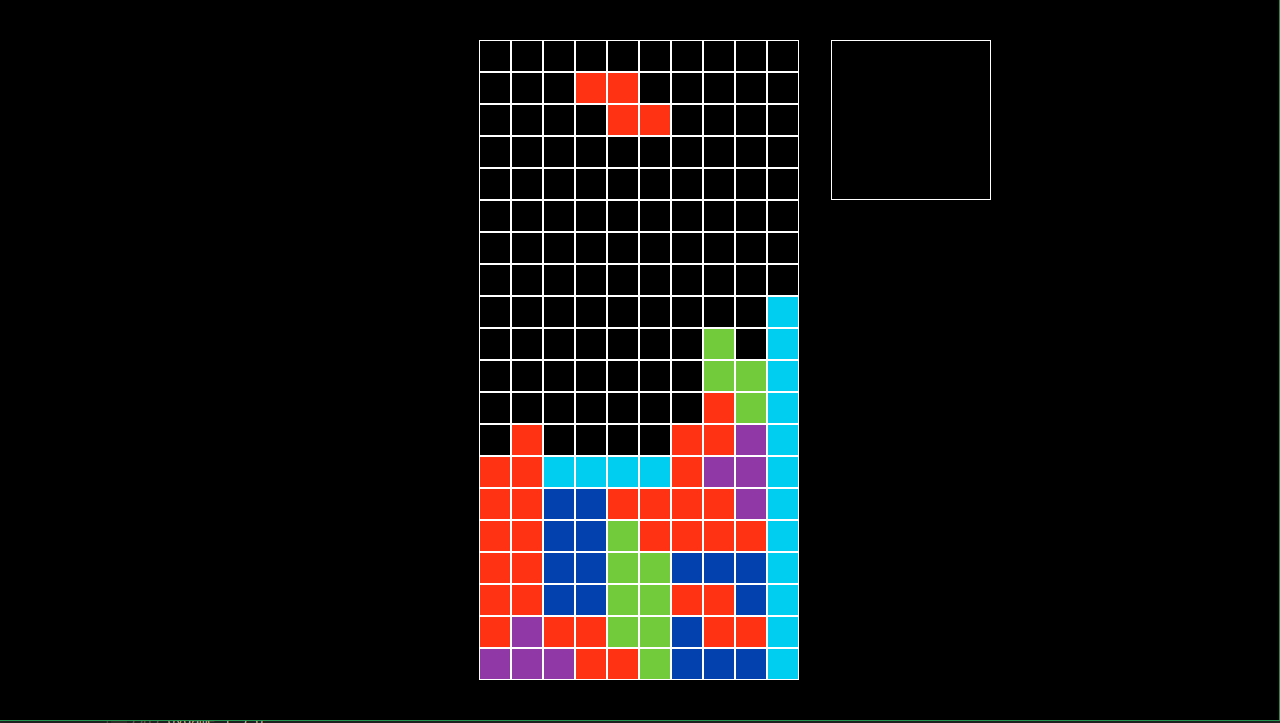
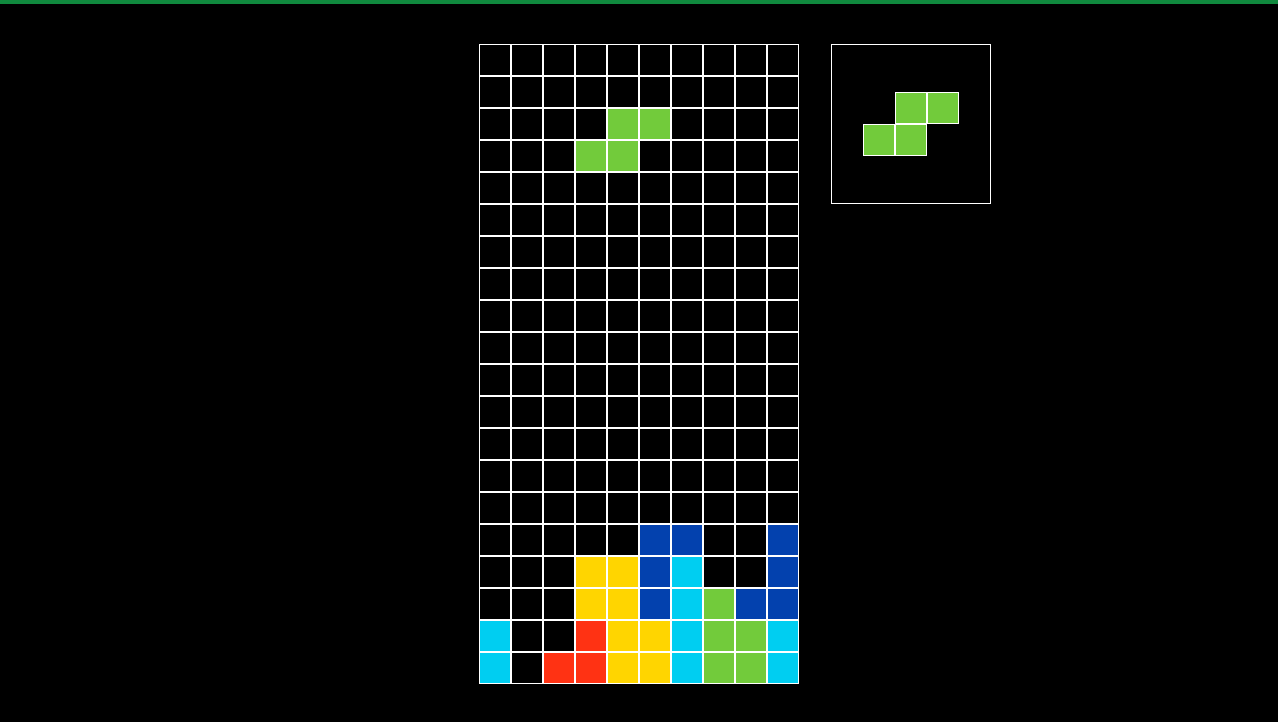
Piece preview

diff --git a/tetris.py b/tetris.py
@@ -53,6 +53,8 @@ piece_pos = [0, 0] # relative to the play area
 piece_index = 0
 piece_rotation = 0
 
+next_piece_index = 0
+
 input_states = \
 {
     "left" : False,
@@ -84,22 +86,26 @@ can_rotate = True
 can_rotate_timer = []
 
 # Array of all pieces and all their rotations, stored as offsets in a 4 by 4 grid if an l or O, or a 3 by 3 grid otherwise (follows SRS)
-# Additionally, and the 5th value in the list for each piece is the color index, and the 6th is their start position
+# Additionally, and the 5th value in the list for each piece is the color index, and the 6th is their start position, 7th is piece preview offset in tiles (can be fractional)
 pieces = \
 [
-    [ [ [0, 1], [1, 1], [2, 1], [3, 1] ], [ [2, 0], [2, 1], [2, 2], [2, 3] ], [ [0, 2], [1, 2], [2, 2], [3, 2] ], [ [1, 0], [1, 1], [1, 2], [1, 3] ], 1, [3, 18] ], # l 
-    [ [ [1, 0], [1, 1], [2, 0], [2, 1] ], [ [1, 0], [1, 1], [2, 0], [2, 1] ], [ [1, 0], [1, 1], [2, 0], [2, 1] ], [ [1, 0], [1, 1], [2, 0], [2, 1] ], 2, [4, 18]], # O
-    [ [ [1, 0], [0, 1], [1, 1], [2, 1] ], [ [1, 0], [1, 1], [1, 2], [2, 1] ], [ [0, 1], [1, 1], [2, 1], [1, 2] ], [ [0, 1], [1, 0], [1, 1], [1, 2] ], 3, [3, 19]], # T
-    [ [ [1, 0], [2, 0], [0, 1], [1, 1] ], [ [1, 0], [1, 1], [2, 1], [2, 2] ], [ [1, 1], [2, 1], [0, 2], [1, 2] ], [ [0, 0], [0, 1], [1, 1], [1, 2] ], 4, [3, 19]], # S
-    [ [ [0, 0], [1, 0], [1, 1], [2, 1] ], [ [1, 1], [1, 2], [2, 0], [2, 1] ], [ [0, 1], [1, 1], [1, 2], [2, 2] ], [ [0, 1], [0, 2], [1, 0], [1, 1] ], 5, [3, 19]], # Z
-    [ [ [0, 0], [0, 1], [1, 1], [2, 1] ], [ [1, 0], [2, 0], [1, 1], [1, 2] ], [ [0, 1], [1, 1], [2, 1], [2, 2] ], [ [0, 2], [1, 0], [1, 1], [1, 2] ], 6, [3, 19]], # J
-    [ [ [2, 0], [0, 1], [1, 1], [2, 1] ], [ [1, 0], [1, 1], [1, 2], [2, 2] ], [ [0, 1], [1, 1], [2, 1], [0, 2] ], [ [0, 0], [1, 0], [1, 1], [1, 2] ], 7, [3, 19]]  # L
+    [ [ [0, 1], [1, 1], [2, 1], [3, 1] ], [ [2, 0], [2, 1], [2, 2], [2, 3] ], [ [0, 2], [1, 2], [2, 2], [3, 2] ], [ [1, 0], [1, 1], [1, 2], [1, 3] ], 1, [3, 18], [0.5, 1]], # l 
+    [ [ [1, 0], [1, 1], [2, 0], [2, 1] ], [ [1, 0], [1, 1], [2, 0], [2, 1] ], [ [1, 0], [1, 1], [2, 0], [2, 1] ], [ [1, 0], [1, 1], [2, 0], [2, 1] ], 2, [4, 18], [0.5, 1.5]], # O
+    [ [ [1, 0], [0, 1], [1, 1], [2, 1] ], [ [1, 0], [1, 1], [1, 2], [2, 1] ], [ [0, 1], [1, 1], [2, 1], [1, 2] ], [ [0, 1], [1, 0], [1, 1], [1, 2] ], 3, [3, 19], [1, 1.5]], # T
+    [ [ [1, 0], [2, 0], [0, 1], [1, 1] ], [ [1, 0], [1, 1], [2, 1], [2, 2] ], [ [1, 1], [2, 1], [0, 2], [1, 2] ], [ [0, 0], [0, 1], [1, 1], [1, 2] ], 4, [3, 19], [1, 1.5]], # S
+    [ [ [0, 0], [1, 0], [1, 1], [2, 1] ], [ [1, 1], [1, 2], [2, 0], [2, 1] ], [ [0, 1], [1, 1], [1, 2], [2, 2] ], [ [0, 1], [0, 2], [1, 0], [1, 1] ], 5, [3, 19], [1, 1.5]], # Z
+    [ [ [0, 0], [0, 1], [1, 1], [2, 1] ], [ [1, 0], [2, 0], [1, 1], [1, 2] ], [ [0, 1], [1, 1], [2, 1], [2, 2] ], [ [0, 2], [1, 0], [1, 1], [1, 2] ], 6, [3, 19], [1, 1.5]], # J
+    [ [ [2, 0], [0, 1], [1, 1], [2, 1] ], [ [1, 0], [1, 1], [1, 2], [2, 2] ], [ [0, 1], [1, 1], [2, 1], [0, 2] ], [ [0, 0], [1, 0], [1, 1], [1, 2] ], 7, [3, 19], [1, 1.5]]  # L
 ]
 
 # All game logic initializations go here, so the game can be restarted and such
 def init_game():
+    global next_piece_index
+
     create_play_area()
     random.seed()
+
+    next_piece_index = random.randrange(0, 6)
 
     insert_new_piece()
 
@@ -196,7 +202,18 @@ def draw():
             pygame.draw.rect(screen, tile_color, [drawn_grid_pos[0] + col * drawn_tile_size[0], drawn_grid_pos[1] + row * drawn_tile_size[1]] + drawn_tile_size)
     screen.unlock()
 
-    # Piece Preview - TODO
+    # TODO: move this to a separate screen that only gets redrawn once when a new piece is generated
+    # next piece preview
+    for tile in pieces[next_piece_index][0]:
+        tile_color = colors[pieces[next_piece_index][4]]
+        tile_preview_offset = pieces[next_piece_index][6]
+        tile_x = int(piece_preview_pos[0] + (tile[0] + tile_preview_offset[0]) * drawn_tile_size[0])
+        tile_y = int(piece_preview_pos[1] + (tile[1] + tile_preview_offset[1]) * drawn_tile_size[1])
+        tile_rect = [tile_x, tile_y] + drawn_tile_size
+
+        pygame.draw.rect(screen, tile_color, tile_rect) # filled color
+        pygame.draw.rect(screen, [255, 255, 255], tile_rect, 1) # tile outline
+
 
     # Score, Level, and Lines Cleared - TODO
 
@@ -207,9 +224,10 @@ def draw():
     pygame.display.flip()
 
 def insert_new_piece():
-    global piece_index, piece_pos, piece_rotation
+    global piece_index, piece_pos, piece_rotation, next_piece_index
 
-    piece_index = random.randrange(0, 6)
+    piece_index = next_piece_index
+    next_piece_index = random.randrange(0, 6)
     piece_pos = pieces[piece_index][5].copy()
     piece_rotation = 0
 

diff --git a/readme.md b/readme.md
@@ -2,3 +2,6 @@
 
 Simple Tetris clone developed with Pygame and Python. 
 Still WIP.
+
+Current progress:
+![](screenshot.png)
